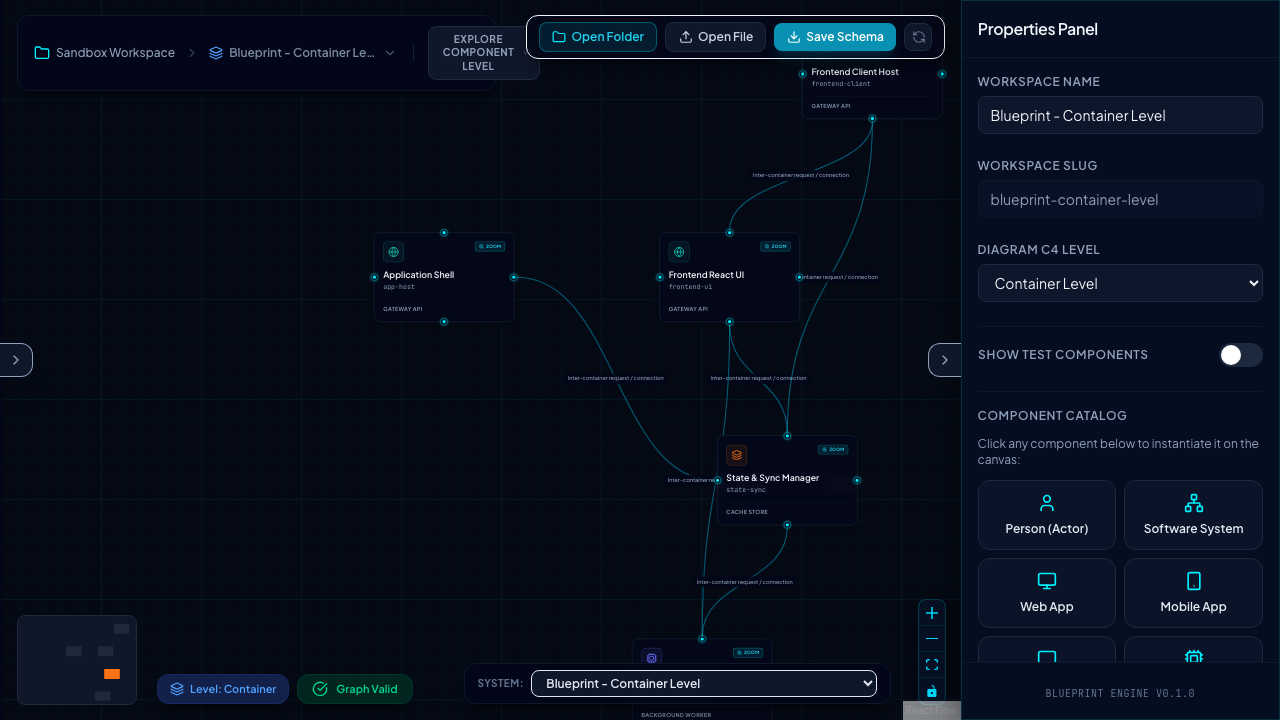
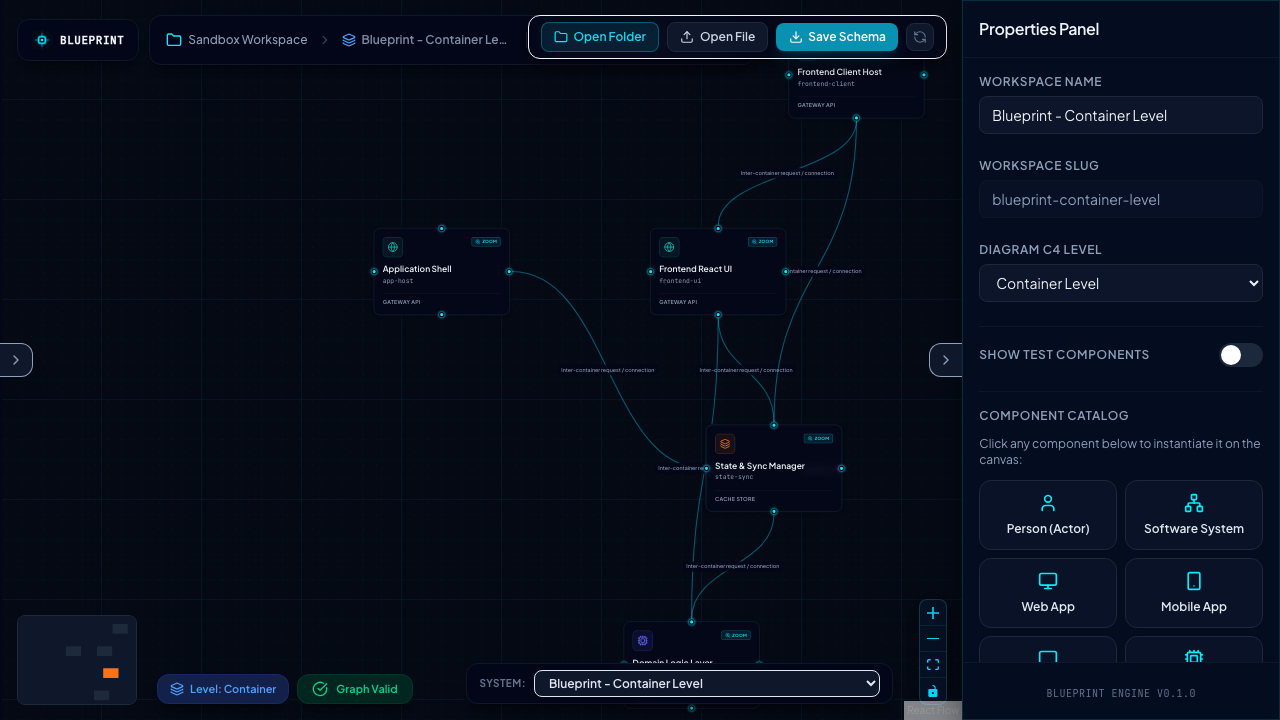
feat: add brand header to canvas, update code viewer branding, and filter breadcrumbs by workspace family

diff --git a/src/components/Breadcrumbs.tsx b/src/components/Breadcrumbs.tsx
@@ -37,6 +37,16 @@ const LEVEL_CONFIGS: Record<
   },
 };
 
+const getWorkspaceFamily = (pathStr: string) => {
+  const cleanPath = pathStr.replace(/\\/g, '/');
+  const parts = cleanPath.split('/');
+  const blueprintsIdx = parts.indexOf('blueprints');
+  if (blueprintsIdx !== -1 && blueprintsIdx < parts.length - 1) {
+    return parts[blueprintsIdx + 1];
+  }
+  return parts[0] || '';
+};
+
 export const Breadcrumbs: React.FC = () => {
   const {
     navigationStack,
@@ -217,8 +227,12 @@ export const Breadcrumbs: React.FC = () => {
           const segConfig = LEVEL_CONFIGS[seg.level];
           const SegIcon = segConfig.icon;
 
+          const currentFamily = getWorkspaceFamily(currentFilePath);
           const sameLevelSystems = loadedSystems.filter(
-            s => s.schema.level === seg.level && s.path !== seg.path
+            s =>
+              s.schema.level === seg.level &&
+              s.path !== seg.path &&
+              getWorkspaceFamily(s.path) === currentFamily
           );
 
           return (

diff --git a/src/components/Canvas.tsx b/src/components/Canvas.tsx
@@ -226,7 +226,13 @@ export const Canvas: React.FC = () => {
           </div>
         </Panel>
 
-        <Panel position="top-left" className="m-4 max-w-[50%]">
+        <Panel position="top-left" className="m-4 flex items-center gap-2.5 max-w-[80%]">
+          <div className="flex items-center gap-2 bg-slate-950/90 border border-slate-900 px-3.5 py-2.5 rounded-xl shadow-lg shadow-black/40 backdrop-blur-md shrink-0">
+            <img src="/favicon.svg" className="w-5 h-5 shrink-0" alt="Blueprint Logo" />
+            <span className="font-bold text-slate-100 tracking-wider text-[11px] uppercase font-mono">
+              blueprint
+            </span>
+          </div>
           <Breadcrumbs />
         </Panel>
 

diff --git a/src/components/CodeViewer.tsx b/src/components/CodeViewer.tsx
@@ -107,9 +107,8 @@ export const CodeViewer: React.FC = () => {
     >
       <div className="p-4 border-b border-slate-900 flex items-center justify-between gap-2">
         <div className="flex items-center gap-2.5 min-w-0">
-          <img src="/favicon.svg" className="w-6 h-6 shrink-0" alt="Blueprint Logo" />
-          <h3 className="font-bold text-slate-100 tracking-tight text-base uppercase truncate">
-            blueprint
+          <h3 className="font-bold text-slate-400 tracking-wider text-[10px] uppercase truncate font-mono">
+            Schema Explorer
           </h3>
         </div>
         <div className="flex items-center gap-2 shrink-0">

diff --git a/src/components/CodeViewer.test.tsx b/src/components/CodeViewer.test.tsx
@@ -25,7 +25,7 @@ describe('CodeViewer UI Component', () => {
   it('should render the Schema Explorer header and tabs', () => {
     render(<CodeViewer />);
 
-    expect(screen.getByText(/blueprint/i)).toBeInTheDocument();
+    expect(screen.getByText(/Schema Explorer/i)).toBeInTheDocument();
     expect(screen.getByRole('button', { name: /yaml/i })).toBeInTheDocument();
     expect(screen.getByRole('button', { name: /json/i })).toBeInTheDocument();
     expect(screen.getByRole('button', { name: /mermaid/i })).toBeInTheDocument();
